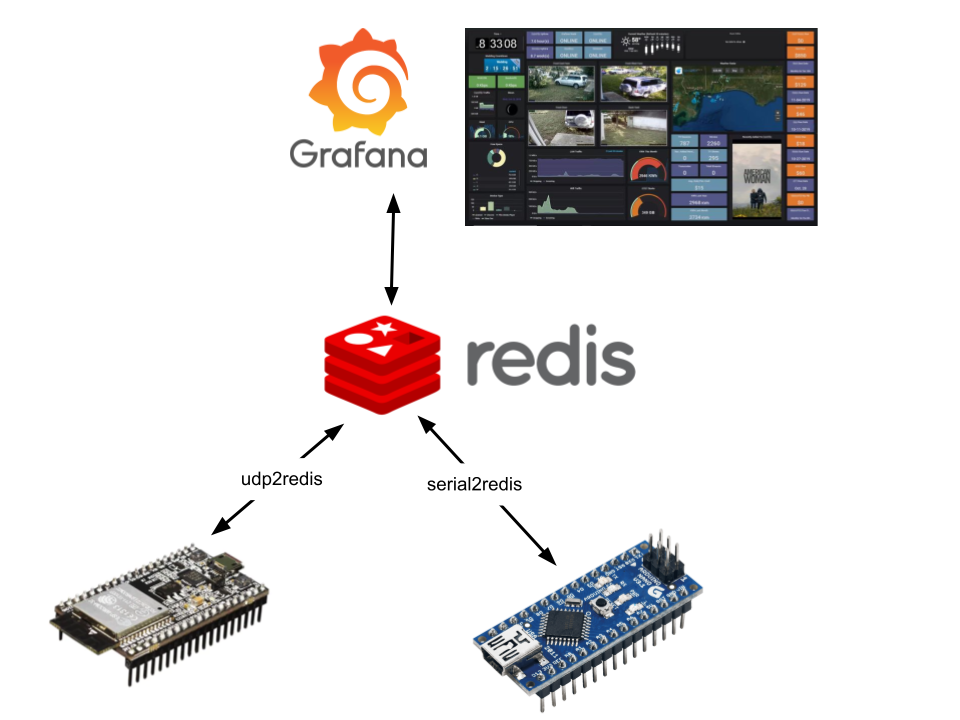
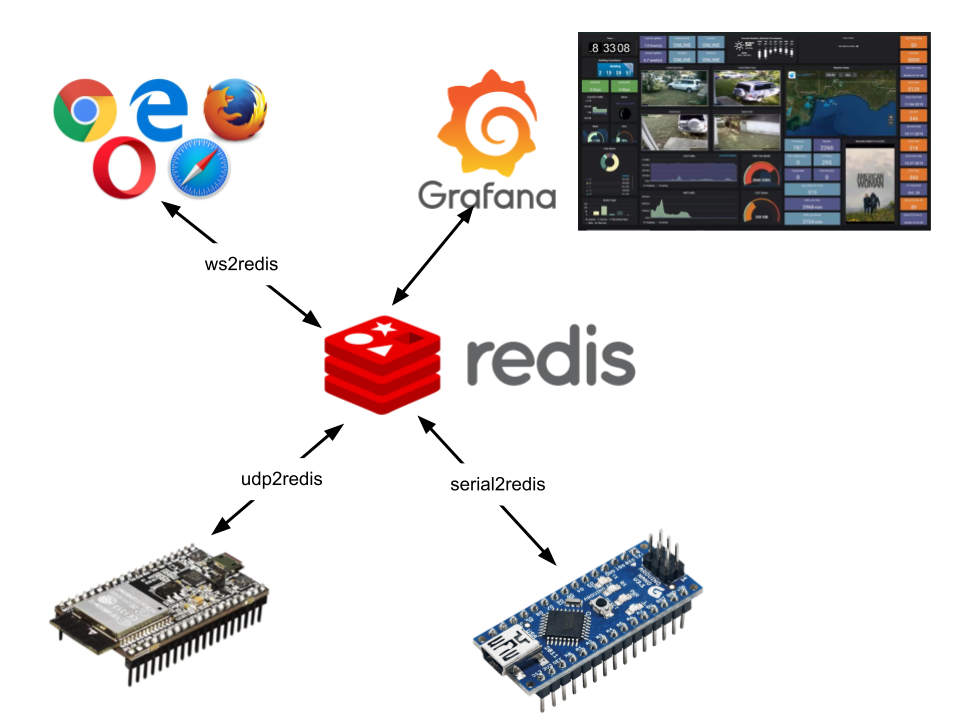
update doc and single thread websocket

diff --git a/src/ws2redis.cpp b/src/ws2redis.cpp
@@ -122,7 +122,11 @@ bool checkDir() {
 int main(int /*argc*/, const char* /*argv*/[]) {
   server.addPageHandler(std::make_shared<MyAuthHandler>());
   server.addWebSocketHandler("/redis", std::make_shared<Handler>());
-  workerThread.start();
-  server.serve("/home/lieven/workspace/serial2redis/web", 9000);
+  server.setStaticPath("/home/lieven/workspace/serial2redis/web");
+  server.startListening(9000);
+  workerThread.addReadInvoker(server.fd(), &server,
+                              [](void* srv) { ((Server*)srv)->poll(2); });
+  workerThread.run();
+  //  server.serve("/home/lieven/workspace/serial2redis/web", 9000);
   return 0;
 }

diff --git a/ws2redis.md b/ws2redis.md
@@ -1,0 +1,16 @@
+# ws2redis
+
+Web-socket to redis. Acts as a gateway to redis with minimal overhead. 
+It accepts the same protocol as the serial or UDP gateway.
+
+It also can serve as a static content server for serving pages. 
+
+No need for node.js server and redis library limitations. 
+
+It's a single thread application based on the excellent C++ seasocks library.
+
+Sending a redis command is straight forward
+```
+    ws = new WebSocket('ws://' + document.location.host + '/redis', ['string', 'foo']);
+    ws.send(JSON.stringify(["HELLO", "3"]))
+```
